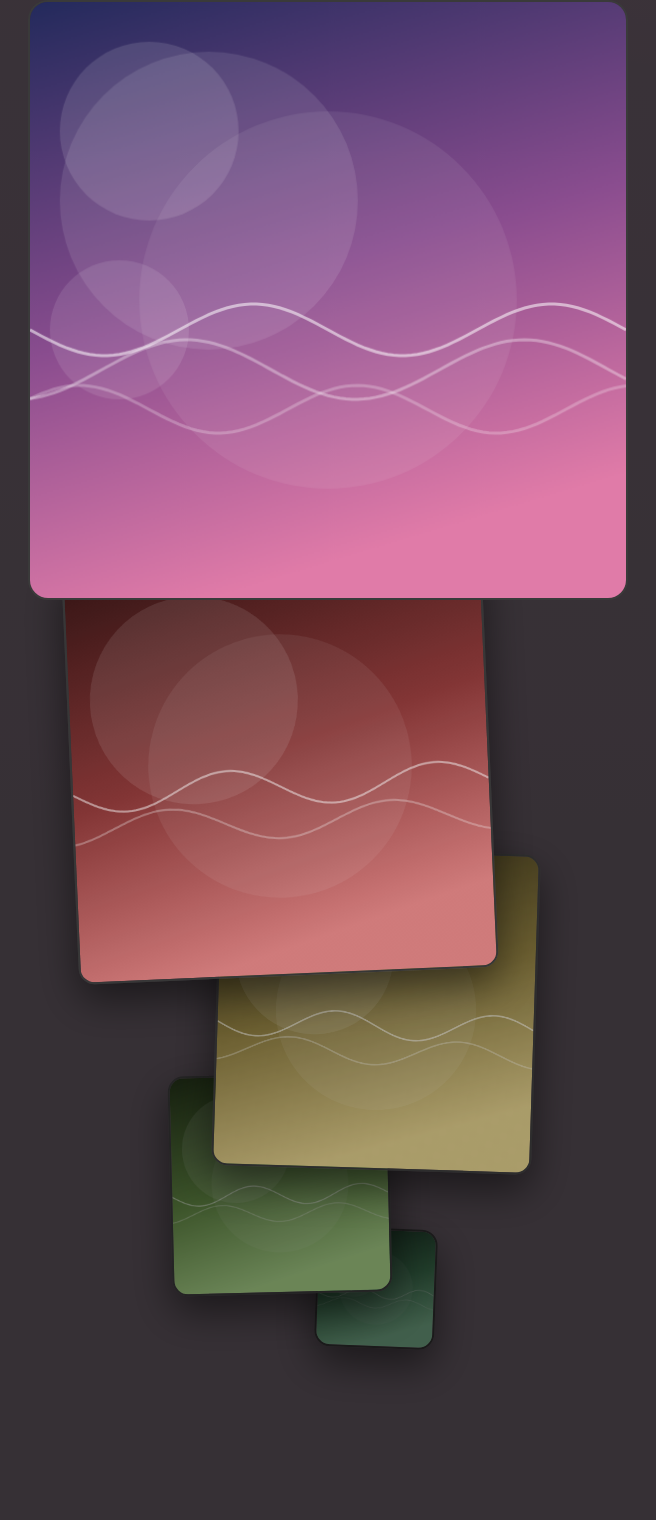
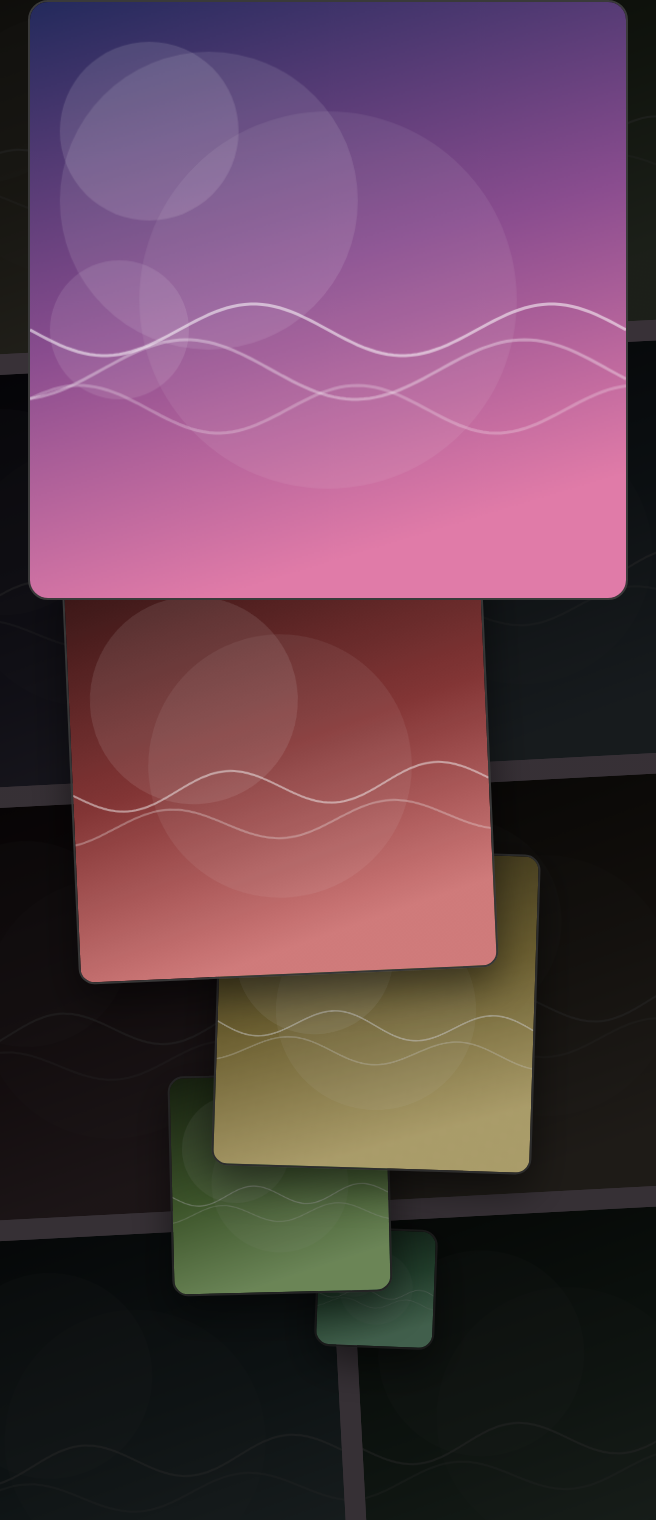
feat(nowplaying): keep the mosaic behind the playing card, still and faint
The idle screen's mosaic vanished as soon as a track played, so the
two screens shared nothing but the record. It now stays behind the
card while playing: still, at 15% brightness and half saturation, over
the card's full area.

The card is a stacking context (isolation) so the mosaic sits at
z-index -1 above the card's background without repositioning any of
its children. Still tiles lose will-change and are placed with a 2D
translate, so none gets a compositor layer while the lyrics scroll
over them. A ResizeObserver re-lays the mosaic when its box changes
size, which a playing card now does on every fitted/compact switch; a
page opened mid-track fetches the covers on its first render. On a
compact stacked card the idle sleeve takes a fixed size, since the
card's height follows the sleeve and the tiles' the card.

The screenshot script waits for the mosaic on playing captures too,
and every image is regenerated.

Claude-Session: https://claude.ai/code/session_016eBy9VYy6o4ucnsNGQp2DT

diff --git a/static/nowplaying.js b/static/nowplaying.js
@@ -958,7 +958,8 @@ function placeTile(tile, x, y, instant) {
     if (instant) {
         tile.style.transition = 'none';
     }
-    tile.style.transform = 'translate3d(' + x + 'px,' + y + 'px,0)';
+    // 2D, so only will-change (idle) promotes a tile to its own layer.
+    tile.style.transform = 'translate(' + x + 'px,' + y + 'px)';
     if (instant) {
         void tile.offsetWidth;   // flush, so the next write transitions from here
         tile.style.transition = '';
@@ -1125,7 +1126,7 @@ function layoutMosaic(ids) {
     mosaicGeom = {
         tiles: tiles, step: grid.step, rowH: grid.rowH,
         rows: grid.rows, perRow: grid.perRow, slots: count,
-        length: count * grid.step, phase: 0,
+        length: count * grid.step, phase: 0, W: W, H: H,
         // Where each tile is drawn, and the row drop owed to it.
         drawnX: [], drawnY: [], dropY: [],
     };
@@ -1174,7 +1175,8 @@ function loadMosaic() {
         .then(function(r) { return r.json(); })
         .then(function(ids) {
             mosaicLoading = false;
-            mosaicLoaded = true;
+            // Fetched behind a playing card, it is not yet the idle screen's own.
+            mosaicLoaded = nowPlaying.classList.contains('is-empty');
             if (!ids || !ids.length) { return; }
             if (mosaicDirty || !mosaicIds || mosaicIds.join('|') !== ids.join('|')) {
                 mosaicIds = ids;
@@ -1189,23 +1191,30 @@ function loadMosaic() {
         .catch(function() { mosaicLoading = false; });
 }
 
+// The mosaic backs the card while playing too, so the card's own size changes
+// (a fitted card, a track without lyrics) re-lay it, not only the window's.
 var mosaicResizeTimer = null;
-window.addEventListener('resize', function() {
+function refitMosaic() {
     if (!mosaicIds) { return; }
     if (mosaicResizeTimer) { clearTimeout(mosaicResizeTimer); }
     mosaicResizeTimer = setTimeout(function() {
-        mosaicDirty = true;
-        // A hidden card measures nothing usable: leave it stale for next time.
-        if (!nowPlaying.classList.contains('is-empty')) { return; }
+        var g = mosaicGeom;
+        if (!el.emptyMosaic.offsetWidth) { return; }
+        if (g && g.W === mosaicCardW() && g.H === mosaicCardH()) { return; }
         if (mosaicCoversWanted() > mosaicAsked) {
+            mosaicDirty = true;
             mosaicLoaded = false;
             loadMosaic();
             return;
         }
-        mosaicDirty = false;
         layoutMosaic(mosaicIds);
     }, 300);
-});
+}
+
+if (el.emptyMosaic) {
+    if (window.ResizeObserver) { new ResizeObserver(refitMosaic).observe(el.emptyMosaic); }
+    else { window.addEventListener('resize', refitMosaic); }
+}
 
 // Ratios are fractions of the pile's column.
 var RECENT_COVER_SIZE = 512;
@@ -1439,6 +1448,8 @@ function render(data) {
     nowPlaying.classList.toggle('is-paused', !!data.paused);
     mosaicLoaded = false;
     stopMosaic();
+    // A page opened mid-track still needs the covers behind the card.
+    if (!mosaicAsked) { loadMosaic(); }
 
     progress = {
         time: data.time || 0,

diff --git a/static/style.css b/static/style.css
@@ -347,6 +347,9 @@ hr {
 }
 
 .now-playing {
+    /* A stacking context, so the mosaic behind a playing card stays above its background. */
+    position: relative;
+    isolation: isolate;
     display: grid;
     grid-template-columns: 300px 1fr;
     gap: 8px 24px;
@@ -1267,6 +1270,29 @@ body.in-app .np-pull {
 
 .now-playing.is-empty .np-empty {
     display: flex;
+}
+
+/* Playing, the mosaic stays as a still, faint backdrop over the whole card. */
+.now-playing:not(.is-empty) .np-empty {
+    display: block;
+    position: absolute;
+    /* Auto, or the grid lines it spans as the empty state bound it to one row. */
+    grid-area: auto;
+    inset: 0;
+    z-index: -1;
+    margin: 0;
+    min-height: 0;
+    pointer-events: none;
+}
+
+.now-playing:not(.is-empty) .np-empty-content {
+    display: none;
+}
+
+/* No own layers while still: the lyrics scroll over it on a Pi's software compositor. */
+.now-playing:not(.is-empty) .np-mosaic-tile {
+    filter: saturate(0.5) brightness(0.15);
+    will-change: auto;
 }
 
 .page-logo {

diff --git a/scripts/generate_screenshots.py b/scripts/generate_screenshots.py
@@ -405,6 +405,14 @@ STILL_VINYL_JS = (
     ".forEach(a => { a.pause(); a.currentTime = 700; })"
 )
 
+# The mosaic backs the playing card too: every tile loaded and revealed.
+MOSAIC_SHOWN_JS = """
+() => {
+    const tiles = document.querySelectorAll('.np-mosaic-tile');
+    return tiles.length > 0 && [...tiles].every(i => i.complete && i.classList.contains('is-shown'));
+}
+"""
+
 PLAYING_JS = "() => !document.getElementById('now-playing').classList.contains('is-empty')"
 OPEN_ZOOM_JS = "() => document.getElementById('np-cover-button').click()"
 
@@ -456,6 +464,7 @@ def capture(browser, base_url, shot):
     page = ctx.new_page()
     page.goto(base_url)
     page.wait_for_function(shot.ready)
+    page.wait_for_function(MOSAIC_SHOWN_JS)
     # Past the lyrics scroll settling and the pile's 300ms debounced re-render.
     page.wait_for_timeout(400)
     # The pile renders only in the wide desktop layout (CSS min-width 1081px,

diff --git a/.claude/skills/frontend/SKILL.md b/.claude/skills/frontend/SKILL.md
@@ -137,6 +137,8 @@ The empty-state background mosaic (`loadMosaic`/`layoutMosaic`/`stepMosaic`) and
 
 The belt's last tile is a record (`.is-record`): `layoutMosaic` loads `static/vinyl.svg` in it like a cover and sets the newest cover as its background, sized by CSS to show only through the record's transparent centre, so it stays a plain `<img>` that the reveal, filter and placement treat like any tile. Being the tile that rides just ahead of the newest, it marks where the list loops; it costs the oldest album its place. It stands still, as nothing plays. The belt starts where that seam is in view (`mosaicStartSlot`): each full layout sets its phase so the record and the newest cover meet over the card's centre line, in the row the idle content starts in (`mosaicContentTop`), never the first, which the card's edge crops; from there the belt runs as before, and the reveal, in belt order, spreads out from them. The idle page takes its tint and accent from the newest tile (`tintFromNewest`, on that tile's `load` and when the mosaic comes back unchanged); until then it keeps the last track's colours, which are usually the same album's, so stopping never flashes the neutral defaults. A library without play history gets the mosaic's random first cover there, by design: no special case.
 
+The mosaic is not only the idle screen's: while a track plays it stays behind the card as a still, faint backdrop (`.now-playing:not(.is-empty) .np-empty`, `z-index: -1` inside the card, which `isolation: isolate` makes a stacking context so the backdrop stays above the card's background; `grid-area: auto`, or the grid lines it spans would bind it to the compact card's first row). Its tiles drop to `saturate(0.5) brightness(0.15)` and lose `will-change`, and `placeTile` writes a 2D `translate`, so a still tile gets no compositor layer of its own: the lyrics scroll over it on a Pi's software compositor. The belt only runs idle (`startMosaic` checks `is-empty`). A page opened mid-track fetches the covers on its first render (`mosaicAsked` still 0). `refitMosaic`, on a `ResizeObserver` over the mosaic, re-lays it whenever its box changes size — a fitted card, a compact one, a window resize — and skips a box the same size as the last layout. On a compact stacked card the sleeve takes a fixed size (120px, 100px under 541px) instead of the tile's: the card's height comes from the sleeve and the tiles' from the card, and the tile size a playing card left behind would otherwise grow the idle card.
+
 Both lay covers out in square slots and fit each artwork's ratio inside its slot: a mosaic tile is centred in its belt slot (`--mosaic-r`), and a sleeve is centred across its slot while `stackRecent` re-hangs the whole pile on every load, each sleeve overlapping the one above by `RECENT_OVERLAP` of that one's real height. The pile's fit loop sizes it for squares, the tallest case, so a pile of wide covers ends shorter rather than overflowing.
 
 The mosaic's belt **steps rather than flows**: one cover every `MOSAIC_STEP_MS`, glided by the tiles' CSS transform transition, and nothing scheduled in between. Continuous motion is what costs — every frame recomposites the whole backdrop, a full core against 2.7% for a still collage — and the cost scales with the step rate, so that constant is the only knob worth turning. A cover only ever glides one slot along its row; anywhere the belt is discontinuous it is placed outright, which stays invisible because those breaks are all off the card.
